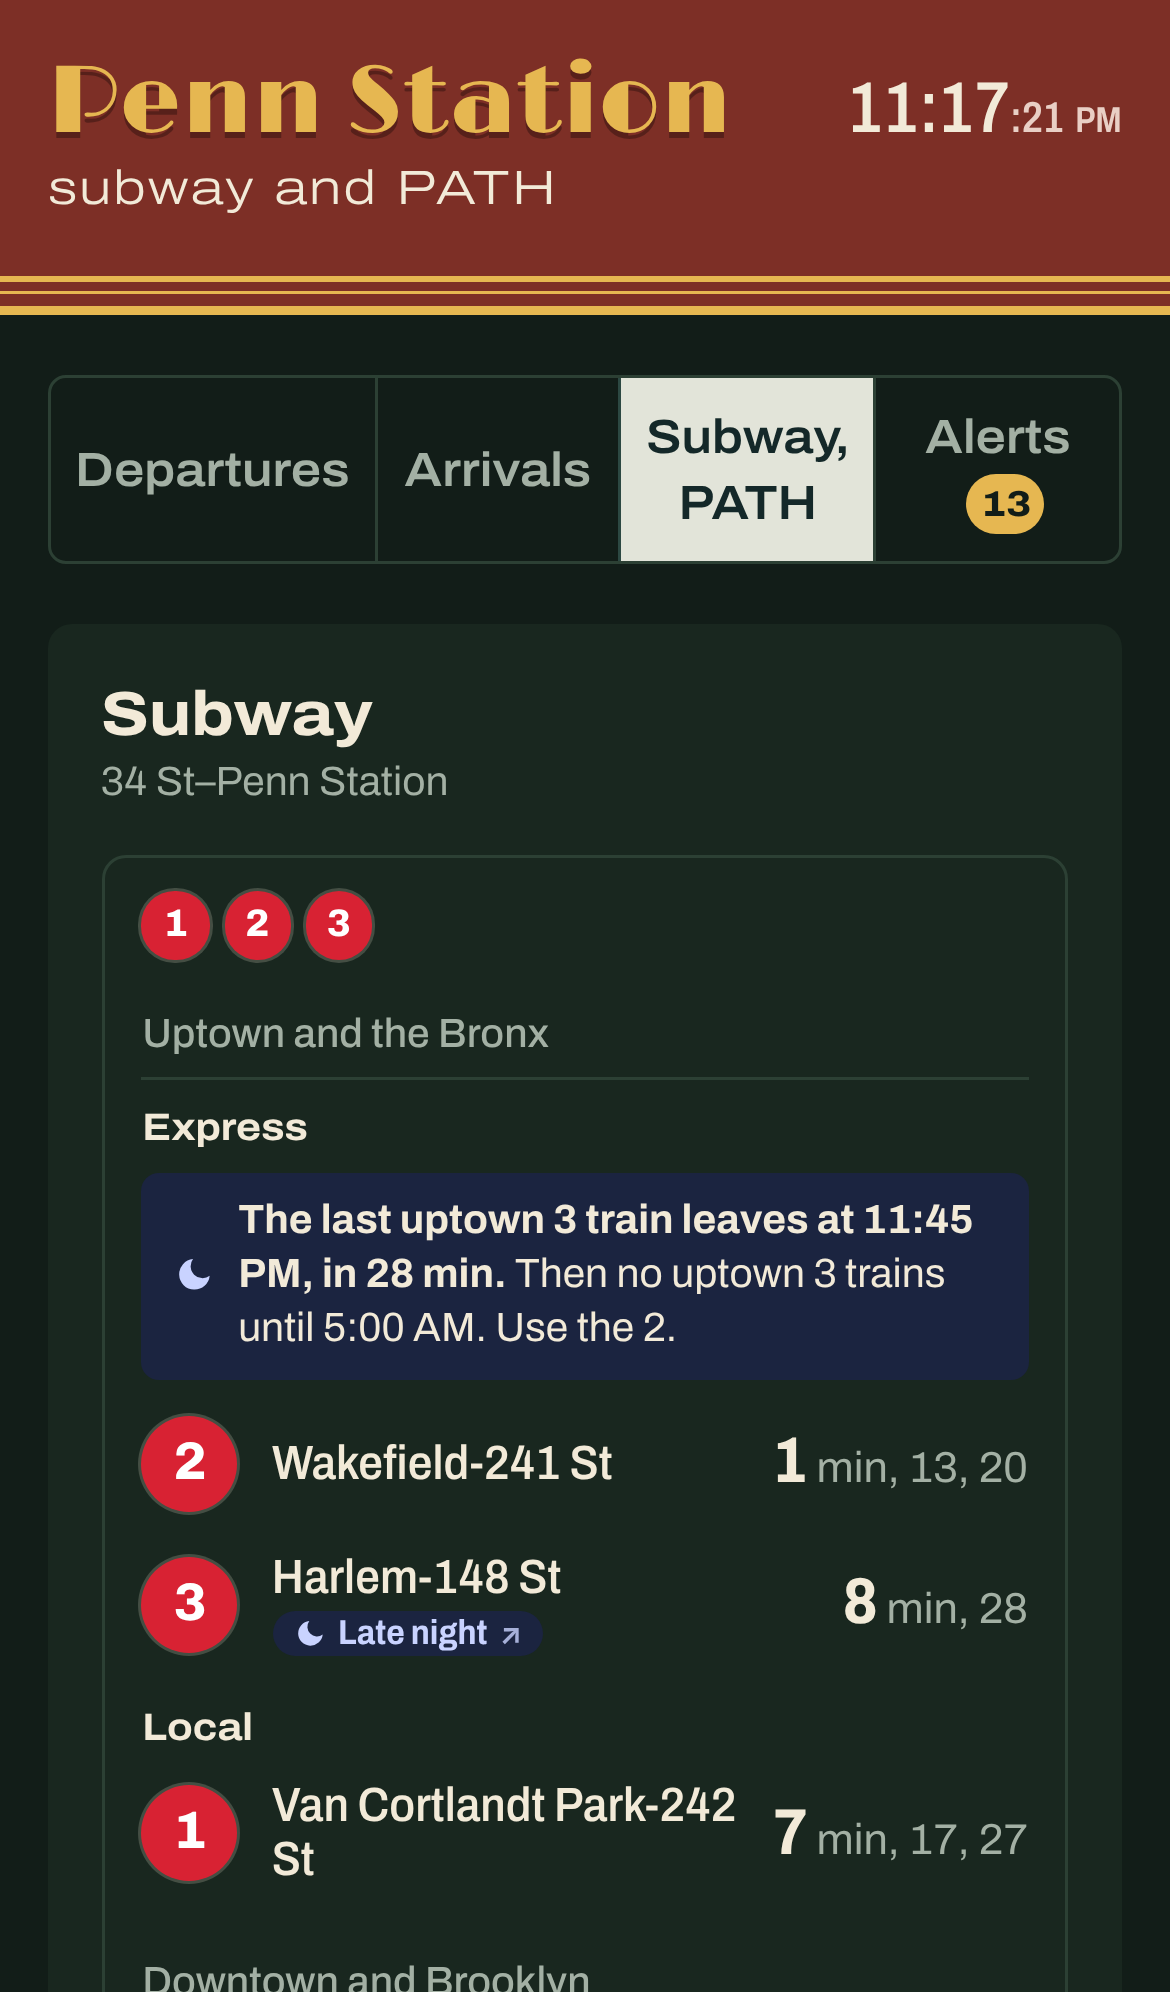
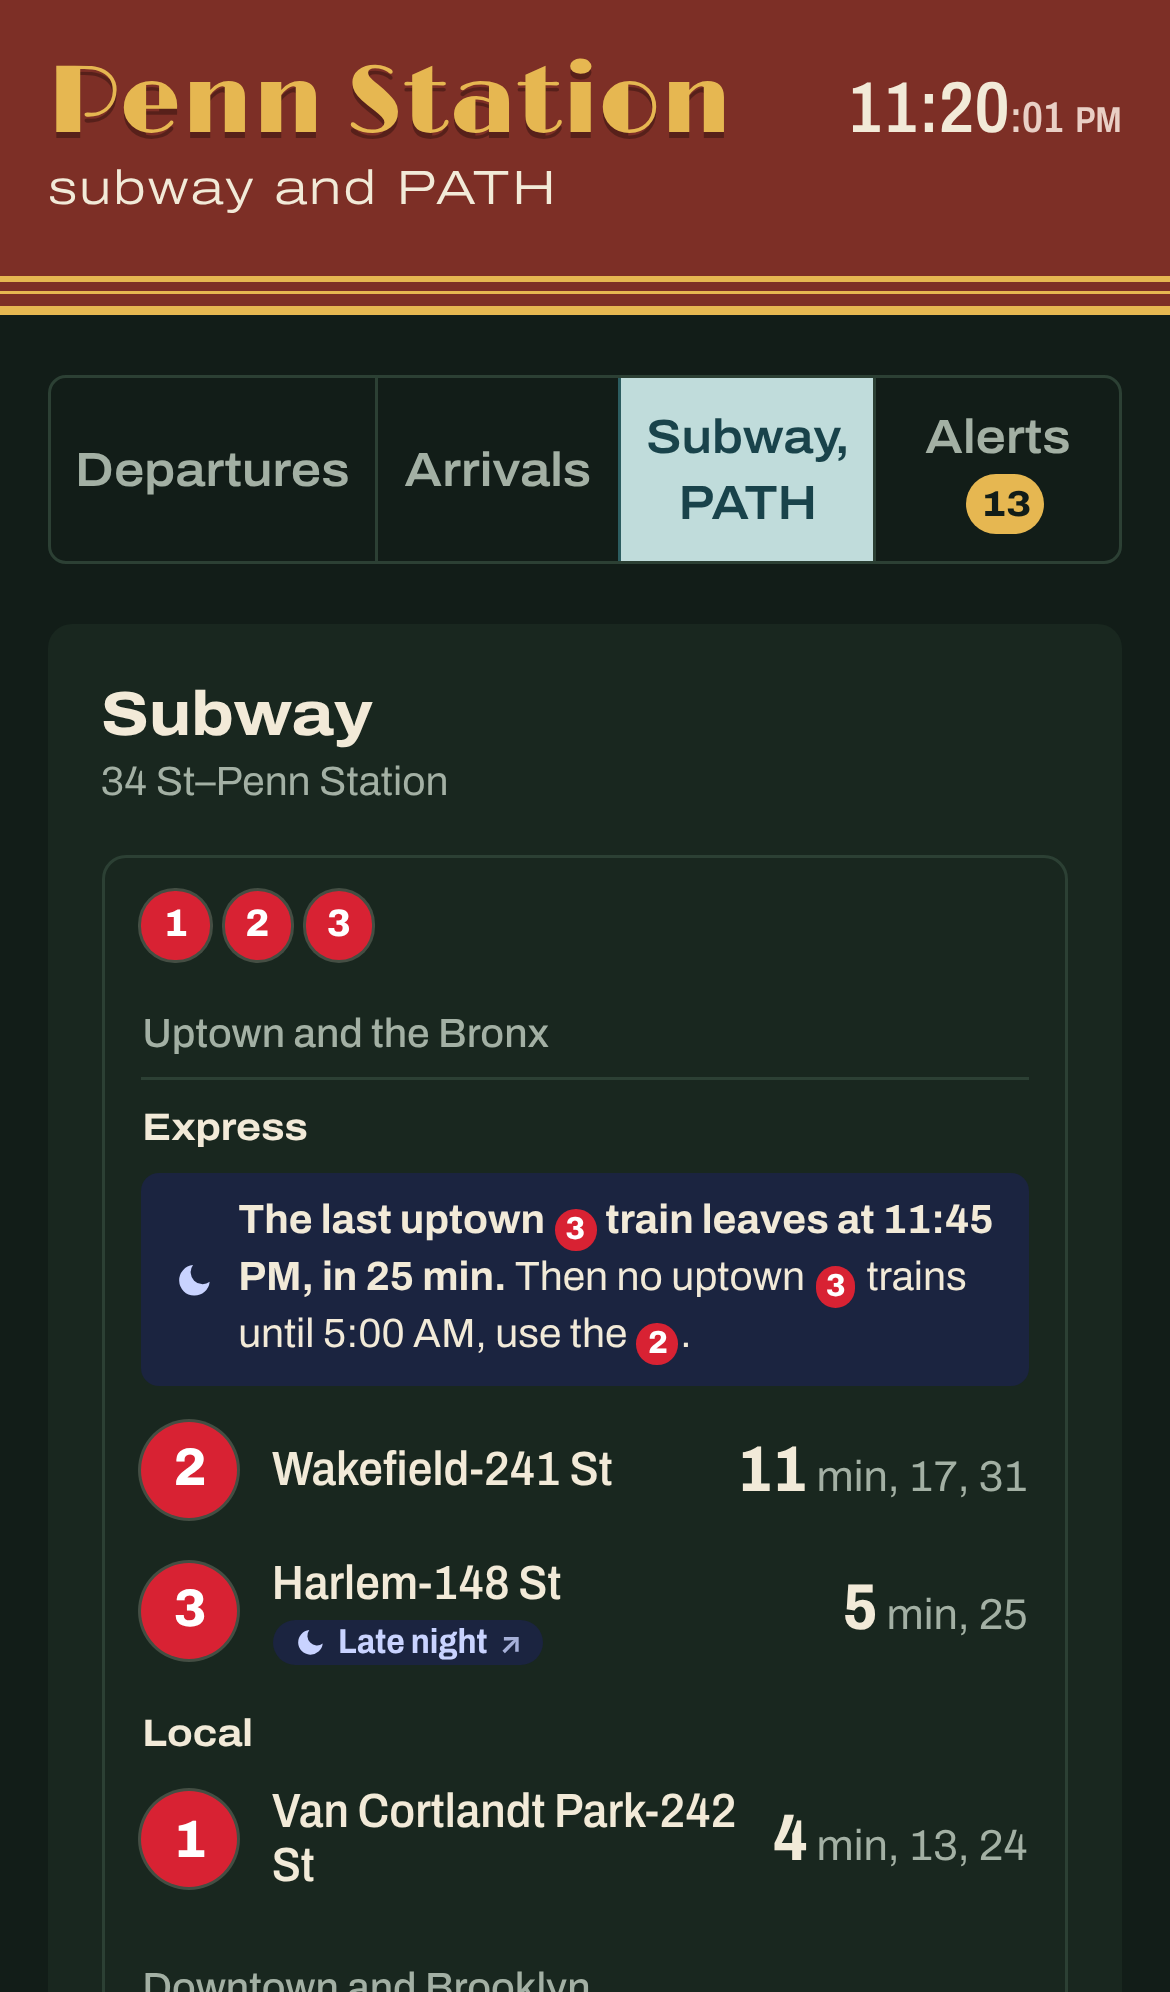
'until 5:00 AM, use the 2.' as one sentence
Claude-Session: https://claude.ai/code/session_017C8QhgXVy25jW1bLQgGiJA

diff --git a/docs/app.js b/docs/app.js
@@ -705,16 +705,16 @@ function suspensionNote(stn, here, line, dir, svc, nowS) {
   let alts = [...new Set([...desc.matchAll(/\[([A-Z0-9]{1,2})\]/g)].map((m) => m[1]))].filter((l) => l !== line && stn.lines.includes(l));
   if (!alts.length) alts = stn.lines.filter((l) => l !== line && here.some((x) => x.route === l && x.dir === dir));
   const altNames = alts.map((l) => lineName(l));
-  const use = altNames.length ? ` Use the ${altNames.slice(0, -1).join(', ')}${altNames.length > 1 ? ' or ' : ''}${altNames[altNames.length - 1]}.` : '';
-  // Just "Use the 2." (owner: the advisory's details stay in the notice).
-  const after = use;
+  // "…until 5:00 AM, use the 2." (owner: one sentence; the advisory's
+  // details stay in the notice).
+  const use = altNames.length ? `, use the ${altNames.slice(0, -1).join(', ')}${altNames.length > 1 ? ' or ' : ''}${altNames[altNames.length - 1]}.` : '.';
   const until = `until ${clockText(s.end)}`;
   // The last train before it starts (a late one still counts).
   const last = here.filter((x) => x.route === line && x.dir === dir).flatMap((x) => x.trains)
     .map((t) => t.time).filter((t) => t >= nowS - 30 && t <= s.start + 10 * 60).sort((a, b) => b - a)[0];
-  if (last) return `<p class="svc-line night">${ICON.moon}<span><b>The last ${way}${label} train leaves at ${clockText(last)}, ${inText(last, nowS)}.</b> Then no ${way}${label} trains ${until}.${after}</span></p>`;
-  if (nowS < s.start) return `<p class="svc-line night">${ICON.moon}<span><b>No ${way}${label} trains from ${clockText(s.start)} ${until}.</b>${after}</span></p>`;
-  return `<div class="none-row">${bulletHtml(line)}<span>No ${way}${label} trains ${until}.${after}</span></div>`;
+  if (last) return `<p class="svc-line night">${ICON.moon}<span><b>The last ${way}${label} train leaves at ${clockText(last)}, ${inText(last, nowS)}.</b> Then no ${way}${label} trains ${until}${use}</span></p>`;
+  if (nowS < s.start) return `<p class="svc-line night">${ICON.moon}<span><b>No ${way}${label} trains from ${clockText(s.start)} ${until}</b>${use}</span></p>`;
+  return `<div class="none-row">${bulletHtml(line)}<span>No ${way}${label} trains ${until}${use}</span></div>`;
 }
 
 // Timetable minutes (after today's midnight, may pass 24:00) -> epoch seconds.
@@ -1095,13 +1095,13 @@ function renderSubway() {
       const altText = alts.length ? `the ${alts.slice(0, -1).join(', ')}${alts.length > 1 ? ' or ' : ''}${alts[alts.length - 1]}` : '';
       const way = dir === 'N' ? 'uptown' : 'downtown';
       const label = lineName(line);
-      // Short: "No C trains until 5:41 AM. Use the A or E." A line not running
+      // Short: "No C trains until 5:41 AM, use the A or E." A line not running
       // either way gets no direction; when only one direction stops (the 3
       // ends at Penn), say which.
       const oneWay = !bothWaysOff(stn.id, line);
       const say = oneWay
-        ? `No ${label} trains ${way} until ${fmtClock(g.until)}.${altText ? ` Use ${altText}.` : ''}`
-        : `No ${label} trains until ${fmtClock(g.until)}.${altText ? ` Use ${altText}.` : ''}`;
+        ? `No ${label} trains ${way} until ${fmtClock(g.until)}${altText ? `, use ${altText}` : ''}.`
+        : `No ${label} trains until ${fmtClock(g.until)}${altText ? `, use ${altText}` : ''}.`;
       return `<div class="none-row">${bulletHtml(line)}<span>${say}</span></div>`;
     }).join('');
     if (svc === 'express') {

diff --git a/docs/index.html b/docs/index.html
@@ -8,7 +8,7 @@
 <link rel="preconnect" href="https://fonts.googleapis.com">
 <link rel="preconnect" href="https://fonts.gstatic.com" crossorigin>
 <link href="https://fonts.googleapis.com/css2?family=Archivo:wdth,wght@62..125,300..900&family=Limelight&display=swap" rel="stylesheet">
-<link rel="stylesheet" href="style.css?v=202611190419">
+<link rel="stylesheet" href="style.css?v=202611190420">
 </head>
 <body data-view="departures">
 
@@ -102,8 +102,8 @@
   </div>
 </dialog>
 
-<script src="config.js?v=202611190419"></script>
-<script src="feeds.js?v=202611190419"></script>
-<script src="app.js?v=202611190419"></script>
+<script src="config.js?v=202611190420"></script>
+<script src="feeds.js?v=202611190420"></script>
+<script src="app.js?v=202611190420"></script>
 </body>
 </html>

diff --git a/HANDOFF.md b/HANDOFF.md
@@ -607,5 +607,5 @@ Subway notices that close or reroute part of a line ("Planned - Part Suspended",
 - Subway 'Late night' pills are links (SUB_LATE_PILL) to the MTA late-night subway diagram page, mta.info/map/5336, in a new tab. PATH pills and pills inside a rerouted (button) row stay plain.
 - Late-night pill (owner, Nov 19, final): back to the original rules. A and 2 local trains from their switch to local (localNight); any line once its trains are 15+ min apart at night (night_window, NIGHT_HEADWAY). The 12-min/after-last-express rule and the 3 cut-back rule were tried and dropped.
 - The 3 uptown also has a pattern rule (cutbackNight): once the last downtown 3 has left Penn for the night (nightGaps 128/3/S 'after', weekdays 10:24 PM), uptown 3 trains get the pill until downtown trains restart (or the 15-min rule ends it later in the morning).
-- Suspension notices (suspensionNote in app.js): a subway notice whose type says Suspended, naming a Penn line and that Penn station, in effect now or within 4 h. Before it starts: 'The last uptown 3 train leaves at {live time}... Then no 3 trains until {end}. Use the 2.' (the line comes from the advisory text; its details stay in the notice). During: 'No uptown 3 trains until {end}. Use the 2.'. A direction already off by the timetable keeps its usual message. feeds.js parseAlerts now keeps each notice's periods.
+- Suspension notices (suspensionNote in app.js): a subway notice whose type says Suspended, naming a Penn line and that Penn station, in effect now or within 4 h. Before it starts: 'The last uptown 3 train leaves at {live time}... Then no 3 trains until {end}. use the 2.' (comma, one sentence; the line comes from the advisory text; its details stay in the notice). During: 'No uptown 3 trains until {end}. Use the 2.'. A direction already off by the timetable keeps its usual message. feeds.js parseAlerts now keeps each notice's periods.
 - Lines named in subway sentences (banners, 'No C trains... Use the A or E', options sheet) show as their badge at text size: lineName(route) = bulletHtml(route, 'inl'), styled .bullet.inl.
